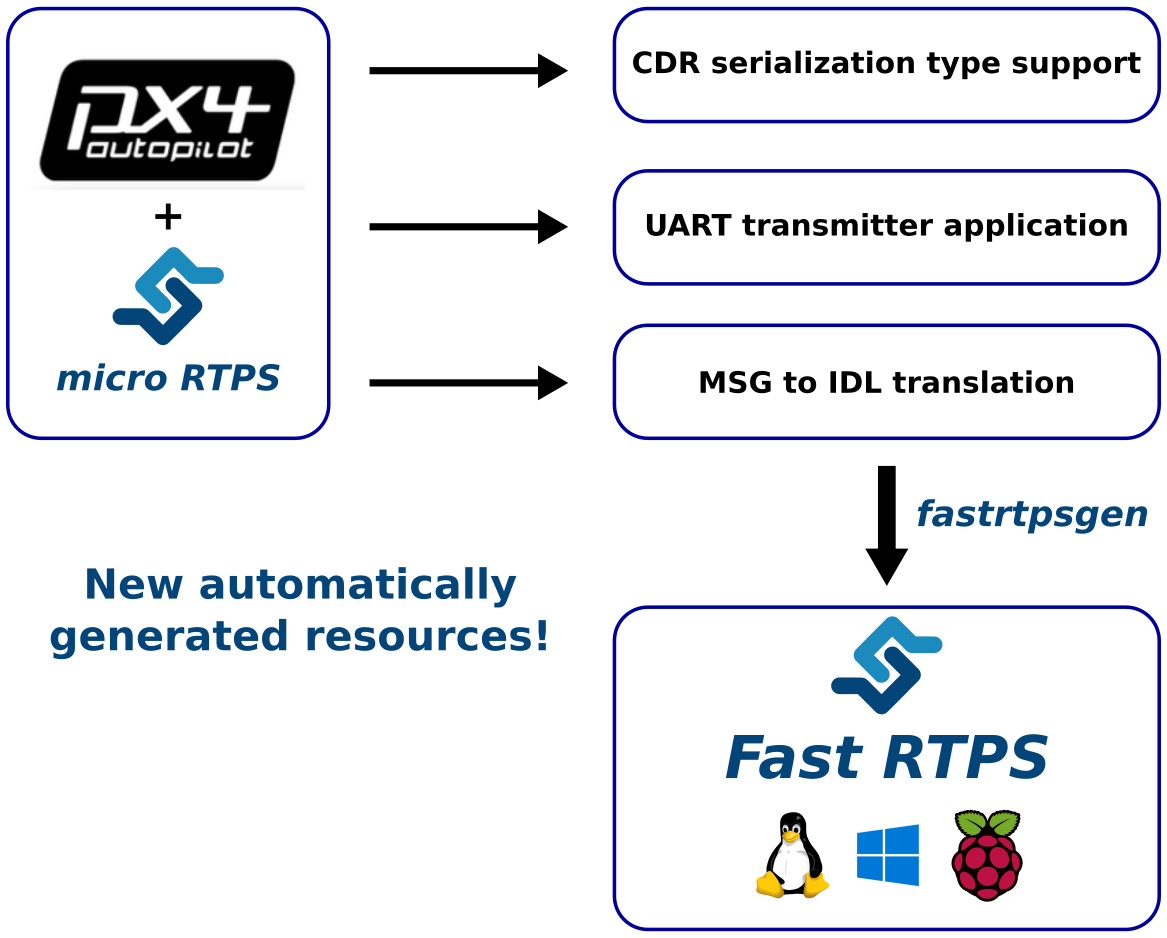
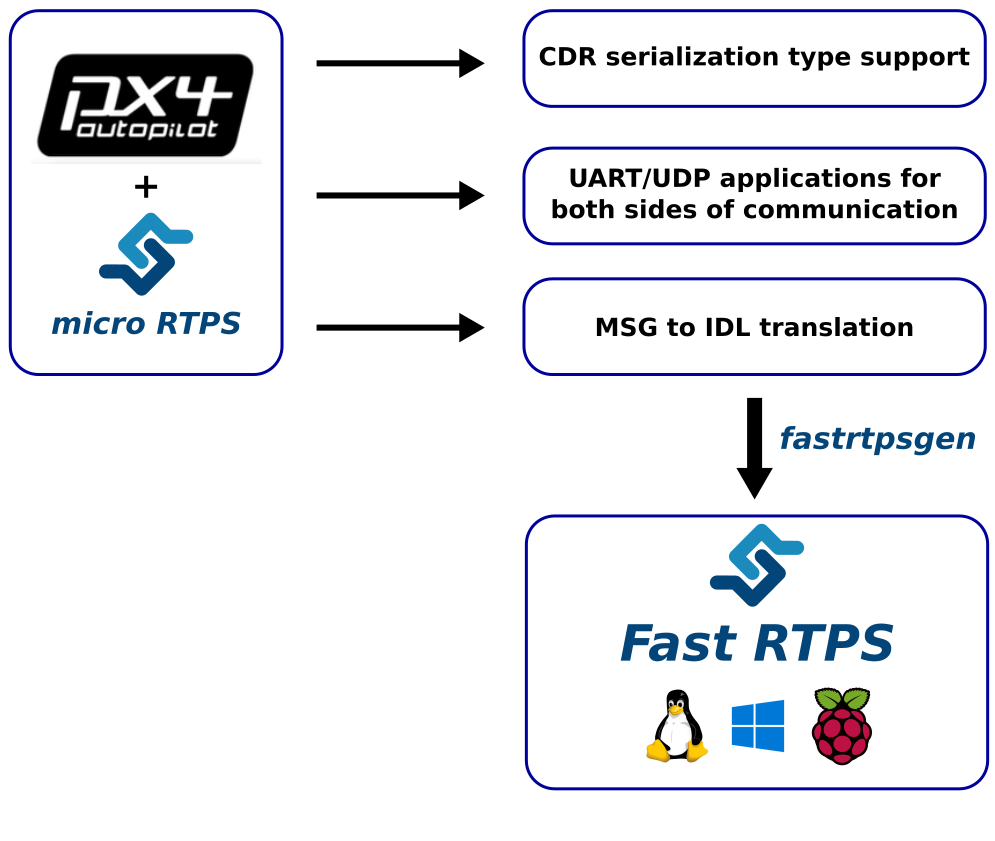
README update

Changed region(s): [[0.4985, 0.0, 0.997, 1.0], [0.0, 0.0, 0.4985, 0.4946], [0.0312, 0.5874, 0.4673, 0.7111]]

diff --git a/README_eprosima.rst b/README_eprosima.rst
@@ -1,7 +1,7 @@
-PX4-FastRTPS
-============
+PX4-FastRTPS bridge
+===================
 
-This is a fork of PX4 Firmware repository to add communication capabilities between a **PX4 Autopilot** (in this README we will talk about **PIXracer**) and a machine running **Fast RTPS** through serial ports using **CDR serialization**, aims to get information from a drone and carry to the DDS world through **Fast RTPS** and put information into the drone from DDS as same manner.
+This bridge add communication capabilities between a **PX4 Autopilot** and a **Fast RTPS** application through serial ports or sockets UDP using **CDR serialization**, aims to get information from a drone and carry to the DDS world through **Fast RTPS** and put information into the drone from DDS as same manner.
 
 .. image:: doc/1_general-white.png
 
@@ -17,7 +17,7 @@ The support for the new functionality added is mainly carried on inside three ne
    void serialize_sensor_combined(const sensor_combined_s *input, char *output, uint32_t *length);
    void deserialize_sensor_combined(struct sensor_combined_s *output, char *input);
 
--  We have the capability under demand of the generation of an application to send and receive through a selected UART the serializated info from several topics (*miroRTPS_client.cpp*).
+-  We have the capability under demand of the generation of an application to send and receive, through a selected UART or selected UDP ports, the serializated info from several topics (*miroRTPS_client.cpp*).
 
 .. image:: doc/2_trasnmitter-white.png
 
@@ -45,6 +45,8 @@ The argument **--send/-s** means that the application from PX4 side will send th
     microRTPS_agent.cxx
     microRTPS_client_CMakeLists.txt
     microRTPS_client.cpp
+    RtpsTopics.cxx
+    RtpsTopics.h
     sensor_baro_.idl
     sensor_baro_Publisher.cxx
     sensor_baro_Publisher.h
@@ -63,38 +65,45 @@ For automating the code installation we need to run a script. The script creates
 
 **CAUTION**: This script erase some files from */path/to/micrortps_agent/install-dir*
 
-PX4 Firmware
-------------
+PX4 Firmware: the micro RTPS client
+-----------------------------------
 
-On the *PX4* side, it will be used an application running an uORB node. This node could be subscribed to a several internal topics as well as publish under these. The application receive from a internal publishers the messages in a loop, serializes the struct and writes it trough an UART port selected by the user. Also will be reading from the UART port and publish to the internal subscribers.
+On the *PX4* side, it will be used an application running as a uORB node and as a micro RTPS node at same time. This applicatgion as uORB node could be subscribed to a several topics as well as publish under internal uORB topics. The application receive from a internal publishers the messages, serializes the struct and writes it trough an UART device or UDP port selected by the user. Also will be reading from the UART device or UDP port and then publish the info to the internal subscribers.
 
 Steps to use the auto generated application:
 
--  Uncomment in *cmake/configs/nuttx_px4fmu-v4_default.cmake* file the *#examples/micrortps_client* to compile this appication along the **PX4** firmware:
+-  Uncomment or add the line *examples/micrortps_client* in cmake configs to compile this application along the **PX4** firmware. For the *Pixracer* platform we found this in *cmake/configs/nuttx_px4fmu-v4_default.cmake* file and for the *Snapdragon Flight* platform we found it in *cmake/configs/posix_sdflight_default.cmake*:
 
 .. code-block:: shell
 
     # eProsima app
     examples/micrortps_client
 
--  Construct and upload the firmware executing:
+-  Construct and upload the firmware executing, for example:
 
 .. code-block:: shell
 
+   # For Pixracer:
    $ make px4fmu-v4_default upload
+   # For Snapdragon Flight:
+   $ make eagle_default upload
 
-After uploading the firmware, the application can be launched on *NuttShell* typing its name and passing an available serial port as argument. Using */dev/ttyACM0*
-will use the USB port as output. Using */dev/ttyS1* or */dev/ttyS2* will write the output through TELEM1 or TELEM2 ports respectively.
+After uploading the firmware, the application can be launched typing its name and passing an variable number of arguments as shown bellow:
 
 .. code-block:: shell
 
-    > micrortps_client [U [P [L [S]]]]
-        U: minimum update time in ms for uORB topics
-        P: maximum wait (poll) time in ms for new uORB topic updates
-        L: number of loops of the application
-        S: sleep time for each loop in us
+    > micrortps_client start|stop [options]
+      -t <transport>          [UART|UDP] Default UART
+      -d <device>             UART device. Default /dev/ttyACM0
+      -u <update_time_ms>     Time in ms for uORB subscribed topics update. Default 0
+      -l <loops>              How many iterations will this program have. -1 for infinite. Default 10000
+      -w <sleep_time_ms>      Time in ms for which each iteration sleep. Default 1ms
+      -b <baudrate>           UART device baudrate. Default 460800
+      -p <poll_ms>            Time in ms to poll over UART. Default 1ms
+      -r <reception port>     UDP port for receiving. Default 2019
+      -s <sending port>       UDP port for sending. Default 2020
 
-    > micrortps_client 10 10 1000 2000 #by default
+    > micrortps_client start #by default -t UART -d /dev/ttyACM0 -u 0 -l 10000 -w 1 -b 460800 -p 1
 
 **NOTE**: If the UART port selected is busy, it's possible that Mavlink applications were using them. If it is the case, you can stop Mavlink from NuttShell typing:
 
@@ -102,19 +111,18 @@ will use the USB port as output. Using */dev/ttyS1* or */dev/ttyS2* will write t
 
     > mavlink stop-all
 
-Fast RTPS (Raspberry PI application)
-------------------------------------
+Fast RTPS: the micro RTPS agent
+-------------------------------
 
 The *Fast RTPS* side will be explained taking a *Raspberry Pi* board to run an application as example.
 
-The application have several functions and possibilities of use: get the sensor data from a system that is using the *PX4 Firmware* (reading the info from the selected UART),
-publish this to a *Fast RTPS* environment, write info to the UART from topics that are expected in the *PX4* side with the info even from subscribed messages from *Fast RTPS* side.
+The application have several functions and possibilities of use: get the sensor data from a system that is using the *PX4 Firmware* (obtaining the information from the selected transport: UDP or UART), publish this to a *Fast RTPS* environment and, in the other direction, to send through the selected transport the information of topics that are expected in the *PX4* side with the info even from subscribed messages from *Fast RTPS* side.
 
 Before runnning the application, it is needed to have installed Fast RTPS. Visit it installation `manual <http://eprosima-fast-rtps.readthedocs.io/en/latest/sources.html>`_ for more information.
 
 This section explains how create *Fast RTPS* applications using the files generated by **generate_microRTPS_bridge.py** and **fastrtpsgen** (this step performed inside install script) from *Fast RTPS*.
 
-This application allow to launch a publisher that will be using the information coming from the uORB topic in the PX4 side thanks to the autogenerated idl file from the original msg file. The publisher will read data from the UART, deserializes it, and make a Fast RTPS message mapping the attributes from the uORB message. The subscriber simply receives the Fast RTPS messages and print them to the terminal. The subscriber can be launched on the Raspberry Pi or in any another device connected in the same network.
+On the *Fast RTPS* side, it will be used an application running as a Fast RTPS node and as a micro RTPS node at same time. This application allow to launch RTPS publishers and subscribers that will be using the information coming from and sending to uORB topics in the PX4 side thanks to the autogenerated idl file from the original msg file. The publisher will read data from UART/UDP, deserializes it, and make a Fast RTPS message mapping the attributes from the uORB message. The subscriber simply receives the Fast RTPS messages and send in the reverse sequence to the PX4 side. The subscriber can be launched on the Raspberry Pi or in any another device connected in the same network.
 
 For create the application, compile the code:
 
@@ -129,11 +137,16 @@ To launch the publisher run:
 
 .. code-block:: shell
 
-    $ ./micrortps_receiver [UART [S]]
-      UART: selected UART
-      S: sleep time for each loop in us
+    $ ./micrortps_agent [options]
+      -t <transport>          [UART|UDP] Default UART
+      -d <device>             UART device. Default /dev/ttyACM0
+      -w <sleep_time_us>      Time in us for which each iteration sleep. Default 1ms
+      -b <baudrate>           UART device baudrate. Default 460800
+      -p <poll_ms>            Time in ms to poll over UART. Default 1ms
+      -r <reception port>     UDP port for receiving. Default 2019
+      -s <sending port>       UDP port for sending. Default 2020
 
-    $ ./micrortps_receiver /dev/ttyACM0 2000 #by default
+    $ ./micrortps_agent # by default -t UART -d /dev/ttyACM0 -w 1 -b 460800 -p 1
 
 Now we can add some code to print some info on the screen, for example:
 
@@ -175,7 +188,7 @@ Now we can add some code to print some info on the screen, for example:
             }
     }
 
-**NOTE**: Normally, it's necessary set up the UART port in the Raspberry Pi. To enable the serial port available on Raspberry Pi connector:
+**NOTE**: Normally, for UART transport it's necessary set up the UART port in the Raspberry Pi. To enable the serial port available on Raspberry Pi connector:
 
 1. Make sure the userid (default is pi) is a member of the dialout group:
 
@@ -200,15 +213,13 @@ Go to *Interfacing options > Serial*, NO to *Would you like a login shell to be 
 
 And enable UART setting *enable_uart=1*.
 
-Result
-------
+Graphical example of usage
+--------------------------
 
-The entire application will follow this flow chart:
+This flow chart shows graphically how works a bridge for an example of use that sends the topic sensor_combined from a Pixracer to a Raspberry Pi through UART.
 
 .. image:: doc/architecture.png
 
 If all steps has been followed, you should see this output on the subscriber side of Fast RTPS.
 
 .. image:: doc/subscriber.png
-
-A video of this final process as demostration is available on `https://youtu.be/NF65EPD-6aY <https://youtu.be/NF65EPD-6aY>`_
